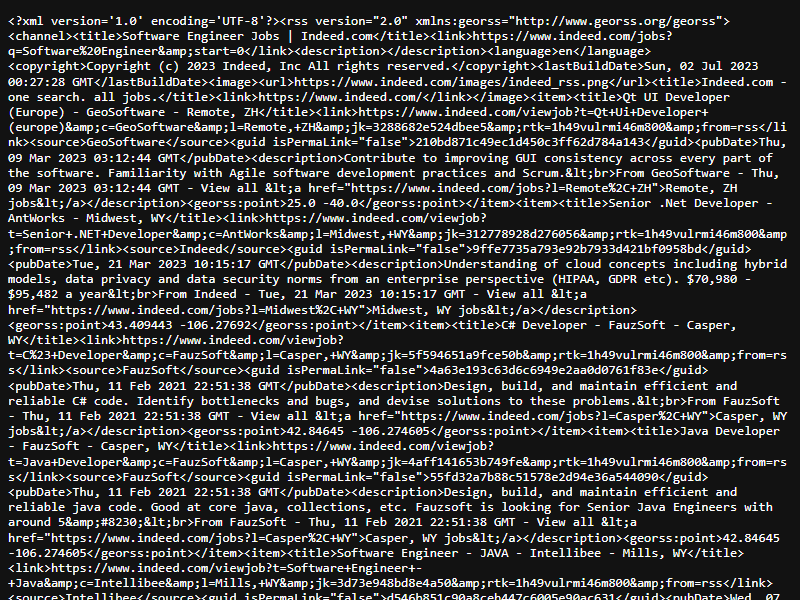
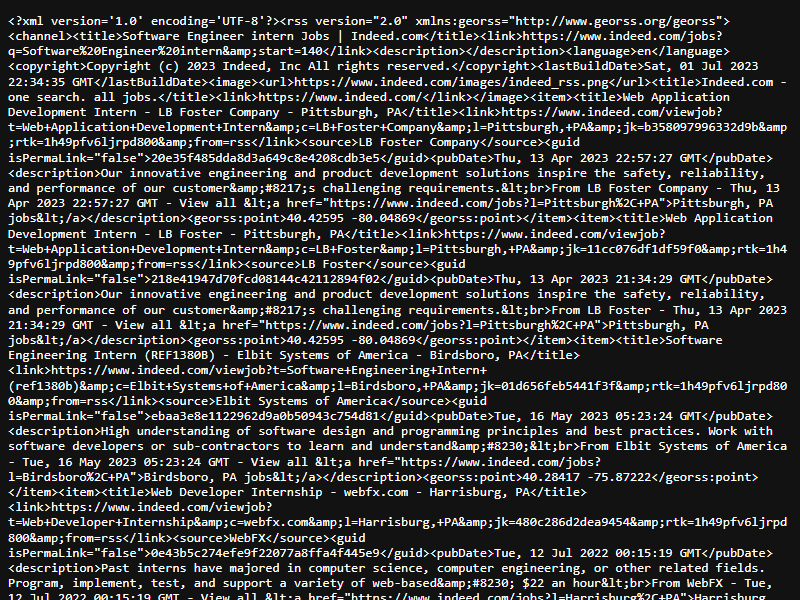
puppeteer and other modifications

Changed region(s): [[0.0, 0.15, 1.0, 1.0], [0.1875, 0.03, 0.9062, 0.12], [0.0, 0.12, 0.0938, 0.15]]

diff --git a/controllers/companyController.js b/controllers/companyController.js
@@ -22,6 +22,7 @@ exports.jobTitleQuery = async (req, res) => {
     let companies = [];
     let companiesQueue = new Queue();
     let pageEmpty = false;
+    let errorOccurred = false;
 
     const { PW_2023_Q2 } = req.models; 
 
@@ -54,7 +55,7 @@ exports.jobTitleQuery = async (req, res) => {
         const rssUrl = "https://www.indeed.com/rss?q=" + encodedJobTitle + "&start="+ start;
         console.log(rssUrl);
         companies = await parseRss(rssUrl);
-        if (companies.length === 0 || companies.length === "undefined") {
+        if (companies.length === 0) {
             pageEmpty = true;
         }
         start += companies.length;
@@ -73,24 +74,28 @@ exports.jobTitleQuery = async (req, res) => {
             if (isFirstFetch) {
                 isFirstFetch = false;
             } else {
-                // Wait for 3 seconds before making the next fetch
-                await new Promise(resolve => setTimeout(resolve, 15000));
+                // Wait for 15 seconds before making the next fetch, printing a countdown
+                for (let i = 3; i > 0; i--) {
+                    console.log(i);
+                    await new Promise(resolve => setTimeout(resolve, 1));
+                }
             }
-    
             await fetchPage();
-    
             while (companiesQueue.length > 0) {
                 await processCompany(companiesQueue.pop());
             }
         }
+        
     
         if (!errorOccurred) {
             res.end(); // End the response when all companies have been sent
         }
     } catch (error) {
         console.error(error);
-        res.status(500).json({ success: false, message: 'An error occurred while processing your request' });
-        errorOccurred = true;
+        if (!res.headersSent) {
+            res.status(500).json({ success: false, message: 'An error occurred while processing your request' });
+        }
+           errorOccurred = true;
     }
 }
 

diff --git a/public/test.html b/public/test.html
@@ -1,0 +1,33 @@
+<!DOCTYPE html>
+<html lang="en-US">
+<head>
+    <title>Just a moment...</title>
+    <meta http-equiv="Content-Type" content="text/html; charset=UTF-8">
+    <meta http-equiv="X-UA-Compatible" content="IE=Edge">
+    <meta name="robots" content="noindex,nofollow">
+    <meta name="viewport" content="width=device-width,initial-scale=1">
+    <link href="/cdn-cgi/styles/challenges.css" rel="stylesheet">
+</head>
+<body class="no-js">
+    <div class="main-wrapper" role="main">
+    <div class="main-content">
+        <noscript>
+            <div id="challenge-error-title">
+                <div class="h2">
+                    <span class="icon-wrapper">
+                        <div class="heading-icon warning-icon"></div>
+                    </span>
+                    <span id="challenge-error-text">
+                        Enable JavaScript and cookies to continue
+                    </span>
+                </div>
+            </div>
+        </noscript>
+        <div id="trk_jschal_js" style="display:none;background-image:url('/cdn-cgi/images/trace/managed/nojs/transparent.gif?ray=7e001948fe9707b3')"></div>
+        <form id="challenge-form" action="/rss?q=Software%20Engineer%20intern&amp;start=40&amp;__cf_chl_f_tk=JRLVw9E9ykrOkBa.7ifnD8MizZOOs7LwBRY6m9uf9JE-1688229710-0-gaNycGzNDLs" method="POST" enctype="application/x-www-form-urlencoded">
+        </form>
+    </div>
+</div>
+</body>
+</html>
+   

diff --git a/app.js b/app.js
@@ -23,6 +23,11 @@ app.use(cookieParser());
 app.use('/public', express.static('public'));
 app.use('/assets', express.static('assets'));
 
+app.get('/', (req, res) => {
+  res.sendFile(__dirname + '/views/companies.html');
+});
+
+
 const port = process.env.PORT || 8080;
 (async () => {
   const { User, Blog, Comment, PW_2023_Q2 } = await connect();

diff --git a/README.md b/README.md
@@ -1,47 +1,3 @@
-# SponsorMatch
-
-## About
-
-SponsorMatch is a platform designed to assist international students in finding companies for job and internship applications. The primary goal of this website is to facilitate the search for companies based on specific criteria like job title, location, industry, and salary range. It provides valuable information about the company's history of sponsoring visas and visualizes salary data, visa sponsorships, and other relevant data.
-
-## Features
-
-- Enables students to search for companies based on specific criteria such as job title, location, industry, and salary range.
-- Provides information about the company's history of sponsoring visas.
-- Offers visualizations of salary data, visa sponsorships, and other relevant data.
-- Allows users to save their favorite companies or job postings for later reference.
-- Provides resources or links to additional information about visa processes and job application tips.
-
-## Installation
-
-To install the application on your local machine:
-
-1. Clone the repository
-2. Install the dependencies by running `npm install` in the project directory
-3. Start the server by running `npm start` in the project directory
-4. Visit `http://localhost:8080/` in your browser
-
-## Usage
-
-To use the SponsorMatch platform:
-
-1. Visit the website and start by searching for companies based on your preferred criteria.
-2. Browse through the results and click on the companies for more details.
-3. Save your favorite companies for later reference.
-4. Use the resources provided for more information about visa processes and job application tips.
-
-## Contributing
-
-Contributions to SponsorMatch are welcome! Here are the steps to contribute:
-
-1. Fork the project repository.
-2. Create a new branch for your features or fixes.
-3. Make your changes in the branch.
-4. Push your changes to your fork.
-5. Submit a pull request to the main SponsorMatch repository.
-
-Please make sure your contributions are in line with the project's standards and guidelines. If you're not sure about something, feel free to ask.
-
-## Contact
-
-For any further inquiries or issues, feel free to contact us.
+To use this repository please do <bold>npm install<bold> first
+<h1> The video of demonstrating the website working can be found here </h1>
+<a href="https://mymailnku-my.sharepoint.com/:v:/g/personal/alemuk1_mymail_nku_edu/EVBPPM-33PFKtDJAP2GZR2UBvup04sUIE6sxjfQRS1COVA?e=smeLcv">Video</a>
